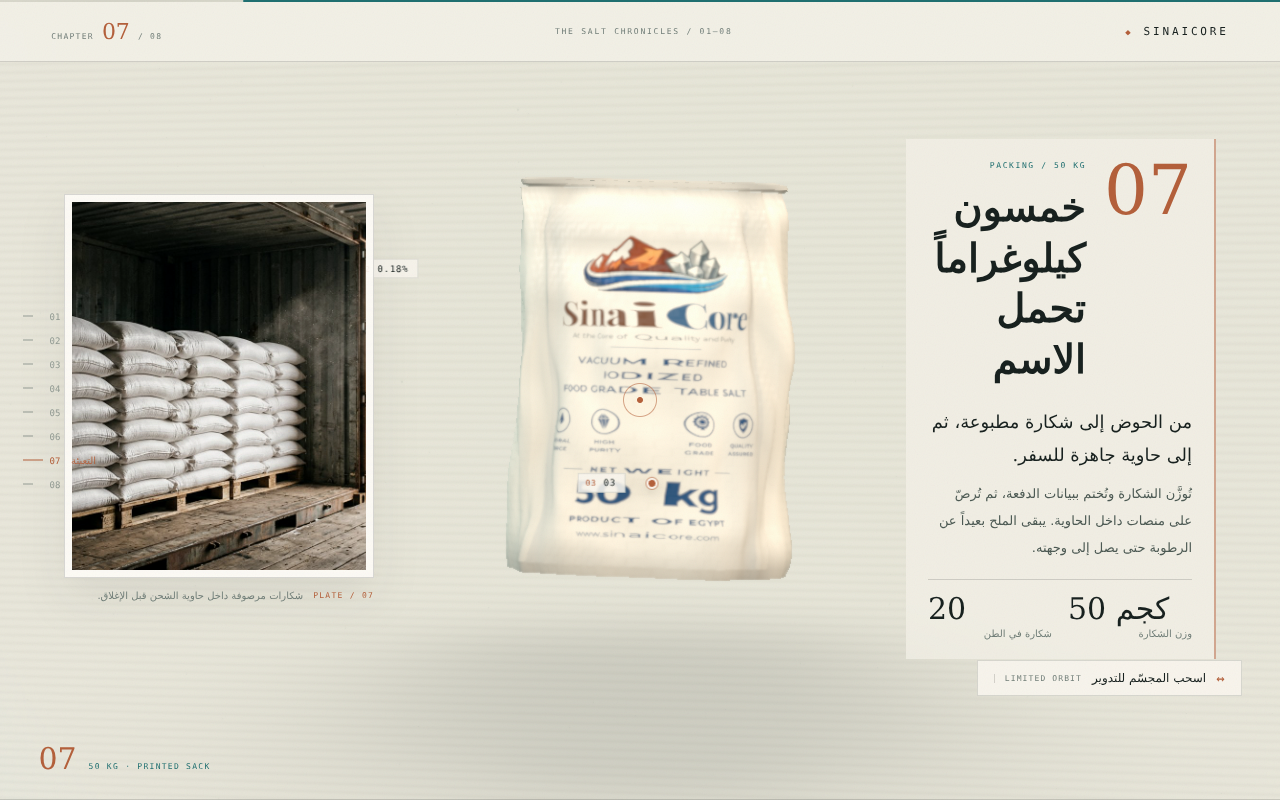
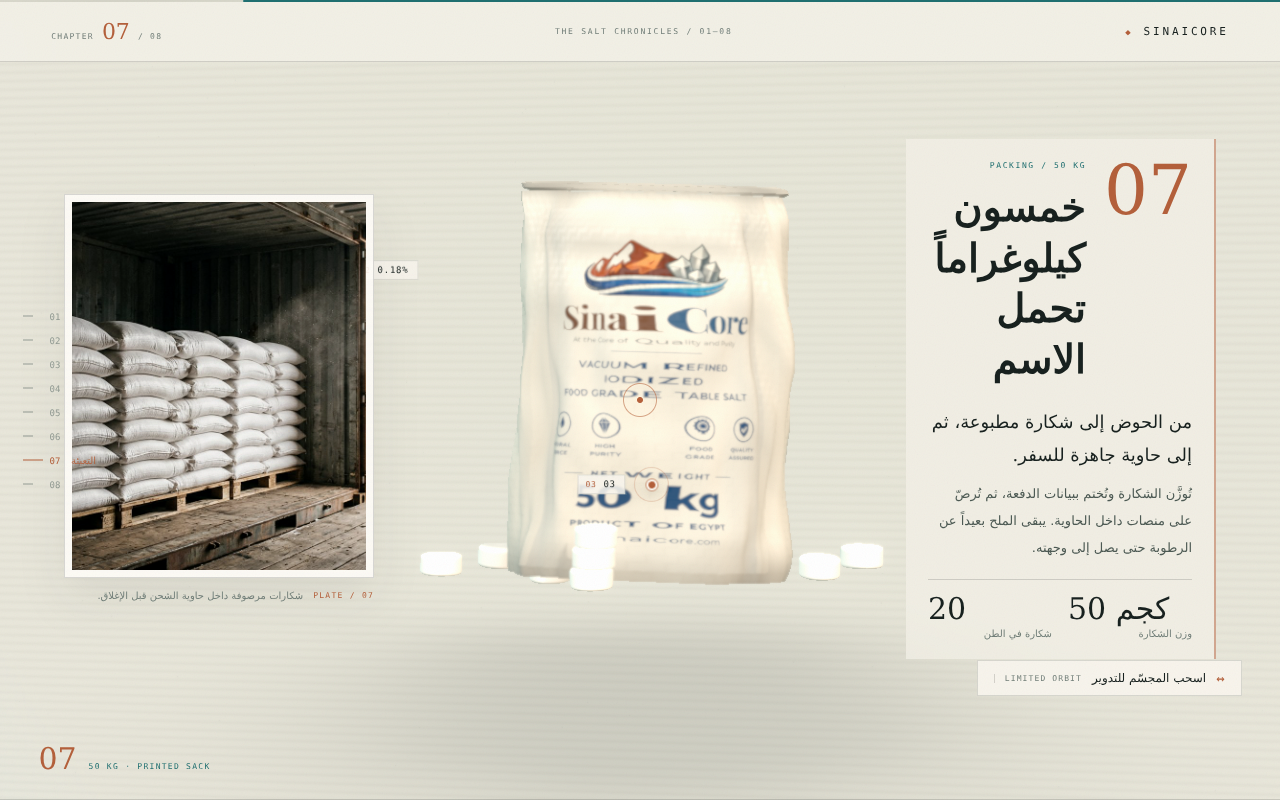
Add pressed salt tablets in front of the sack, authored as a lathe with a chamfered rim

diff --git a/viewer/main.js b/viewer/main.js
@@ -21,7 +21,7 @@ const scene = new THREE.Scene()
 scene.background = null
 
 const camera = new THREE.PerspectiveCamera(30, window.innerWidth / window.innerHeight, 0.1, 100)
-camera.position.set(0.62, 0.42, 5.15)
+camera.position.set(0.8, 1.06, 6.45)
 
 /* A studio box gives the PP sheen something to reflect without shipping an HDRI. */
 const pmrem = new THREE.PMREMGenerator(renderer)
@@ -62,7 +62,7 @@ floor.receiveShadow = true
 scene.add(floor)
 
 const controls = new OrbitControls(camera, renderer.domElement)
-controls.target.set(0, 0.06, 0)
+controls.target.set(0, -0.24, 0.18)
 controls.enableDamping = true
 controls.dampingFactor = 0.07
 controls.enablePan = false
@@ -151,6 +151,79 @@ loader
     })
     sack.add(model)
     status.dataset.state = 'ready'
+
+    /* The tablets the sacks are sold for, spilled in front of the bag like the
+       product shot: pressed salt discs, a few on their face, a few on edge. */
+    const tabletGltf = await loader.loadAsync(`/models/tablet.glb?${stamp}`)
+    const tabletMesh = tabletGltf.scene.getObjectByProperty('isMesh', true)
+    // Pressed salt: matte, granular, with a faint chalky sheen. The grain map
+    // is the same salt-detail texture the crystal chapters use.
+    const grain = await new THREE.TextureLoader().loadAsync(`/textures/salt-detail.png?${stamp}`)
+    grain.wrapS = grain.wrapT = THREE.RepeatWrapping
+    grain.repeat.set(3, 3)
+    const tabletMaterial = new THREE.MeshPhysicalMaterial({
+      color: '#f7f5ee',
+      roughness: 0.74,
+      metalness: 0,
+      bumpMap: grain,
+      bumpScale: 0.03,
+      sheen: 0.4,
+      sheenRoughness: 0.62,
+      sheenColor: new THREE.Color('#fffdf7'),
+      envMapIntensity: 0.45,
+    })
+
+    // Deterministic scatter so the study looks the same every time.
+    let seed = 20261125
+    const rnd = () => {
+      seed = (seed * 1664525 + 1013904223) % 4294967296
+      return seed / 4294967296
+    }
+    const FLOOR = -1.075
+    const tablets = new THREE.Group()
+    const spots = [
+      [-0.98, 1.62],
+      [-0.62, 1.3],
+      [-0.28, 1.86],
+      [0.02, 1.4],
+      [0.44, 1.78],
+      [0.84, 1.42],
+      [1.2, 1.9],
+      [-0.8, 0.98],
+      [0.24, 1.02],
+      [-0.04, 2.22],
+      [0.64, 1.04],
+      [-1.3, 1.34],
+    ]
+    for (const [x, z] of spots) {
+      const tablet = tabletMesh.clone()
+      tablet.material = tabletMaterial
+      tablet.castShadow = true
+      tablet.receiveShadow = true
+      const scale = 0.115 + rnd() * 0.02
+      tablet.scale.setScalar(scale)
+      // Most tablets lie on their face; a couple stand on the rim.
+      const onEdge = rnd() > 0.72
+      tablet.rotation.set(
+        onEdge ? Math.PI / 2 - 0.12 : (rnd() - 0.5) * 0.08,
+        rnd() * Math.PI * 2,
+        (rnd() - 0.5) * 0.12,
+      )
+      tablet.position.set(x, FLOOR + (onEdge ? scale * 0.5 : scale * 0.5), z)
+      tablets.add(tablet)
+    }
+    // A small stack, so the pile has depth like the reference shot.
+    for (let i = 0; i < 3; i++) {
+      const tablet = tabletMesh.clone()
+      tablet.material = tabletMaterial
+      tablet.castShadow = true
+      tablet.receiveShadow = true
+      tablet.scale.setScalar(0.118)
+      tablet.rotation.set(Math.PI / 2 - 0.04, 0.4 + i * 0.5, 0.02 * (i - 1))
+      tablet.position.set(-0.36 + i * 0.015, FLOOR + 0.07 + (i === 2 ? 0.11 : 0), 1.96 - i * 0.01)
+      tablets.add(tablet)
+    }
+    scene.add(tablets)
   })
   .catch((error) => {
     console.error(error)

diff --git a/src/components/Sculpture.tsx b/src/components/Sculpture.tsx
@@ -710,6 +710,69 @@ function Sack(props: SackProps) {
   )
 }
 
+
+/** Pressed water-softening tablets spilled in front of the sack, the way the
+ *  product is shot: a scoop of discs on the floor, some stacked. */
+const TABLET_SPOTS: Array<[number, number, number]> = [
+  [-0.98, 0.98, 0.2],
+  [-0.72, 0.72, 0.5],
+  [-0.46, 1.12, 0.7],
+  [-0.18, 0.8, 0.3],
+  [0.14, 1.06, 0.6],
+  [0.46, 0.76, 0.25],
+  [0.76, 1.02, 0.55],
+  [1.02, 0.74, 0.35],
+  [-0.6, 0.5, 0.45],
+  [0.28, 0.48, 0.6],
+]
+
+function Tablets() {
+  const maps = useSurfaceMaps()
+  const gltf = useGLTF('/models/tablet.glb', '/draco/')
+
+  const group = useMemo(() => {
+    const source = gltf.scene.getObjectByProperty('isMesh', true) as THREE.Mesh | undefined
+    const wrapper = new THREE.Group()
+    if (!source) return wrapper
+    const material = new THREE.MeshStandardMaterial({
+      color: '#f6f3ea',
+      roughness: 0.74,
+      metalness: 0,
+      bumpMap: maps.weave,
+      bumpScale: 0.02,
+      envMapIntensity: 0.4,
+    })
+    let seed = 20261125
+    const rnd = () => {
+      seed = (seed * 1664525 + 1013904223) % 4294967296
+      return seed / 4294967296
+    }
+    for (const [x, z, tilt] of TABLET_SPOTS) {
+      const tablet = new THREE.Mesh(source.geometry, material)
+      tablet.castShadow = true
+      tablet.receiveShadow = true
+      const size = 0.086 + rnd() * 0.016
+      tablet.scale.setScalar(size)
+      tablet.rotation.set(tilt * 0.12, rnd() * Math.PI * 2, (rnd() - 0.5) * 0.14)
+      tablet.position.set(x, -1.045 + size * 0.5, z)
+      wrapper.add(tablet)
+    }
+    // A short stack, so the pile has some height.
+    for (let i = 0; i < 3; i++) {
+      const tablet = new THREE.Mesh(source.geometry, material)
+      tablet.castShadow = true
+      tablet.receiveShadow = true
+      tablet.scale.setScalar(0.09)
+      tablet.rotation.set(0.02 * i, 0.5 + i * 0.4, 0.01)
+      tablet.position.set(-0.3 + i * 0.012, -1.045 + 0.047 + i * 0.09, 1.28 + i * 0.01)
+      wrapper.add(tablet)
+    }
+    return wrapper
+  }, [gltf, maps])
+
+  return <primitive object={group} />
+}
+
 type ContainerProps = {
   closed?: number | { value: number }
   showSacks?: boolean
@@ -873,6 +936,11 @@ function PackPhase() {
         <Sack texture={texture} position={[0, 0, 0]} scale={1} />
         <Sack texture={texture} position={[0.2, 0.02, -0.12]} scale={1} />
       </group>
+      <AssetBoundary fallback={null}>
+        <Suspense fallback={null}>
+          <Tablets />
+        </Suspense>
+      </AssetBoundary>
     </group>
   )
 }
